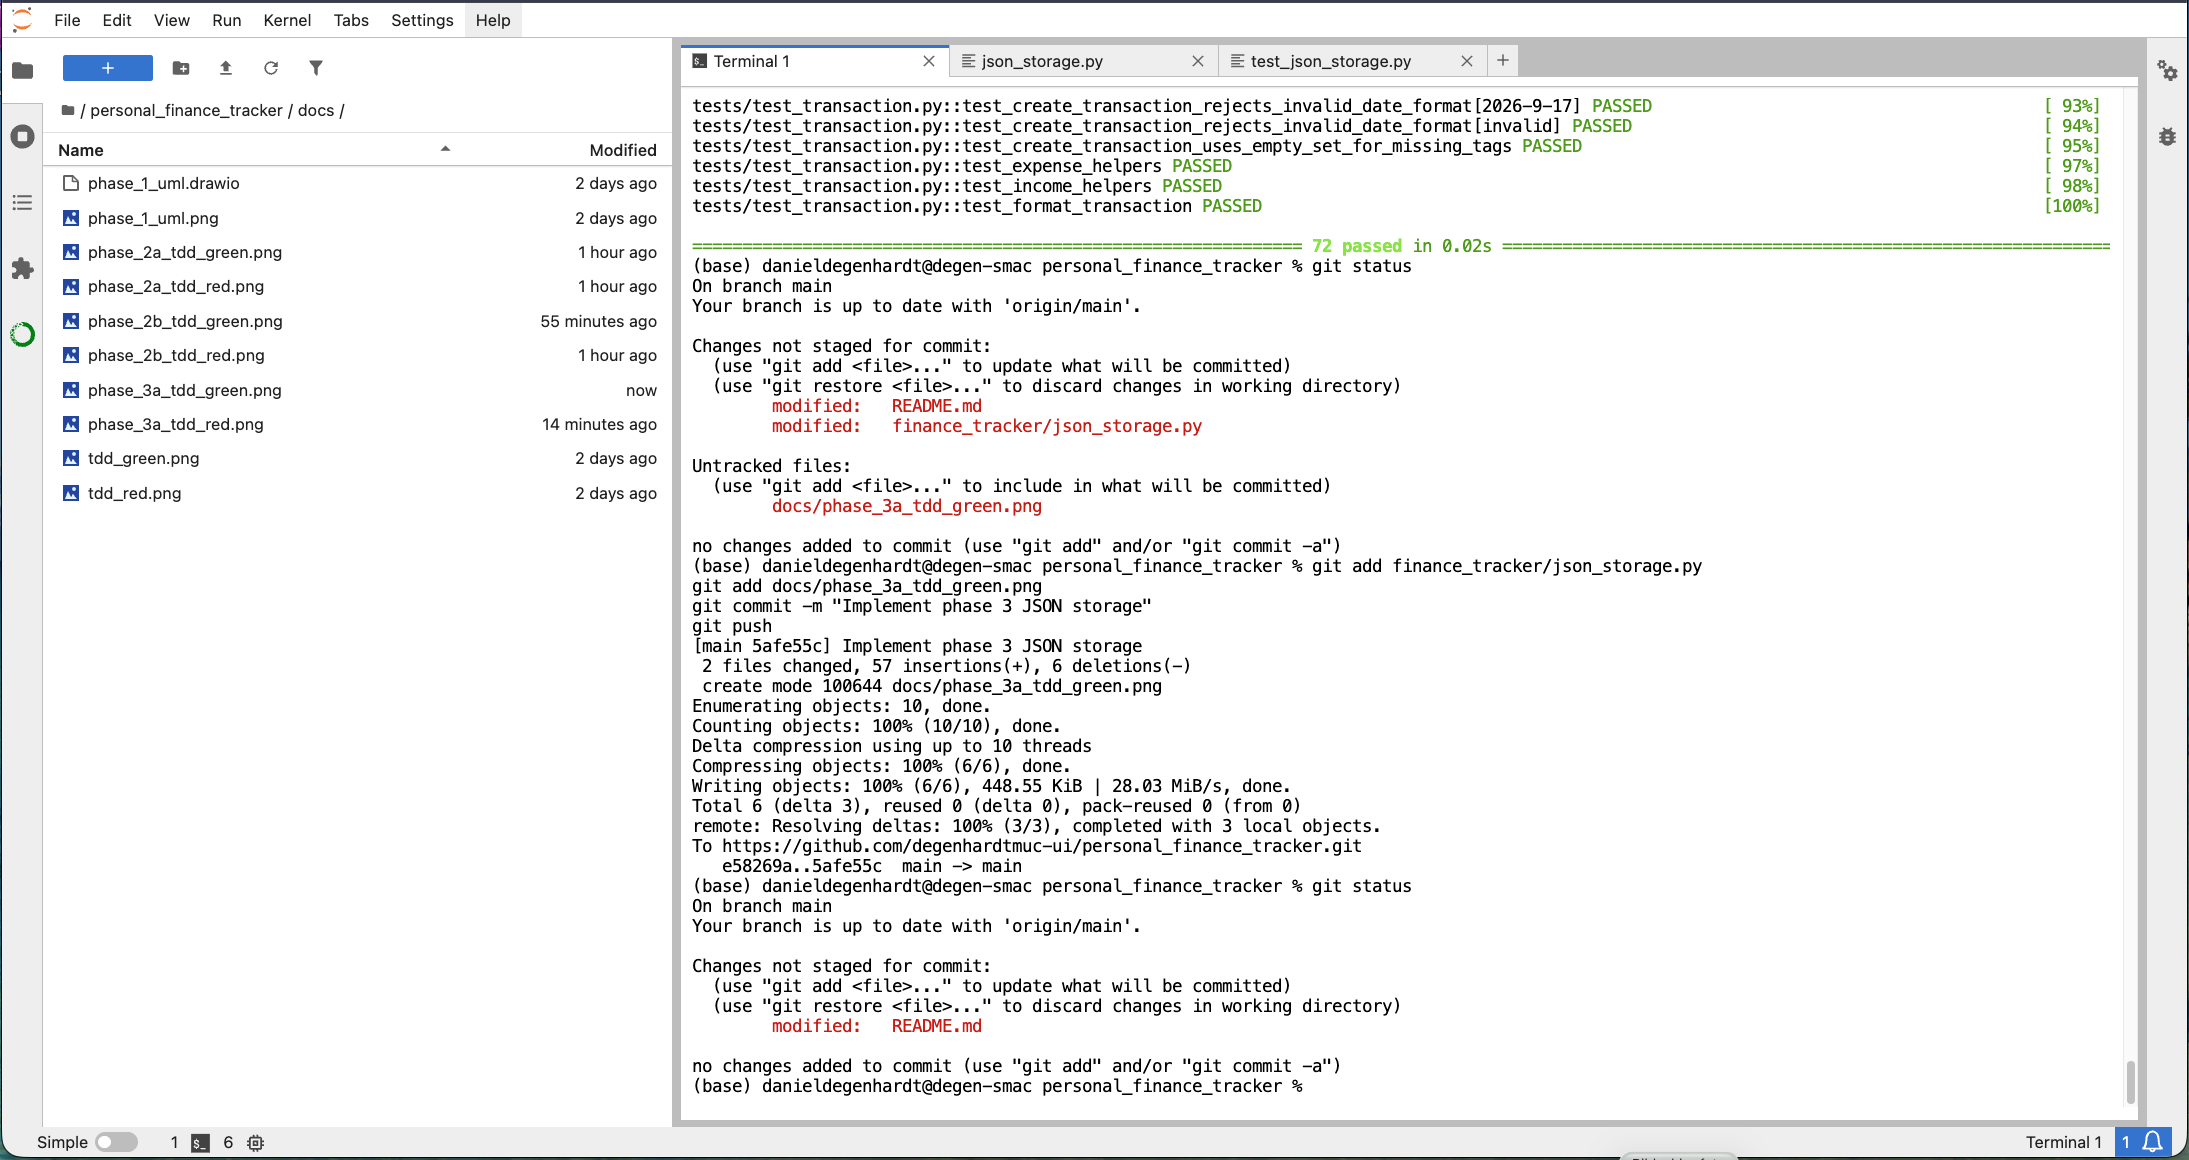
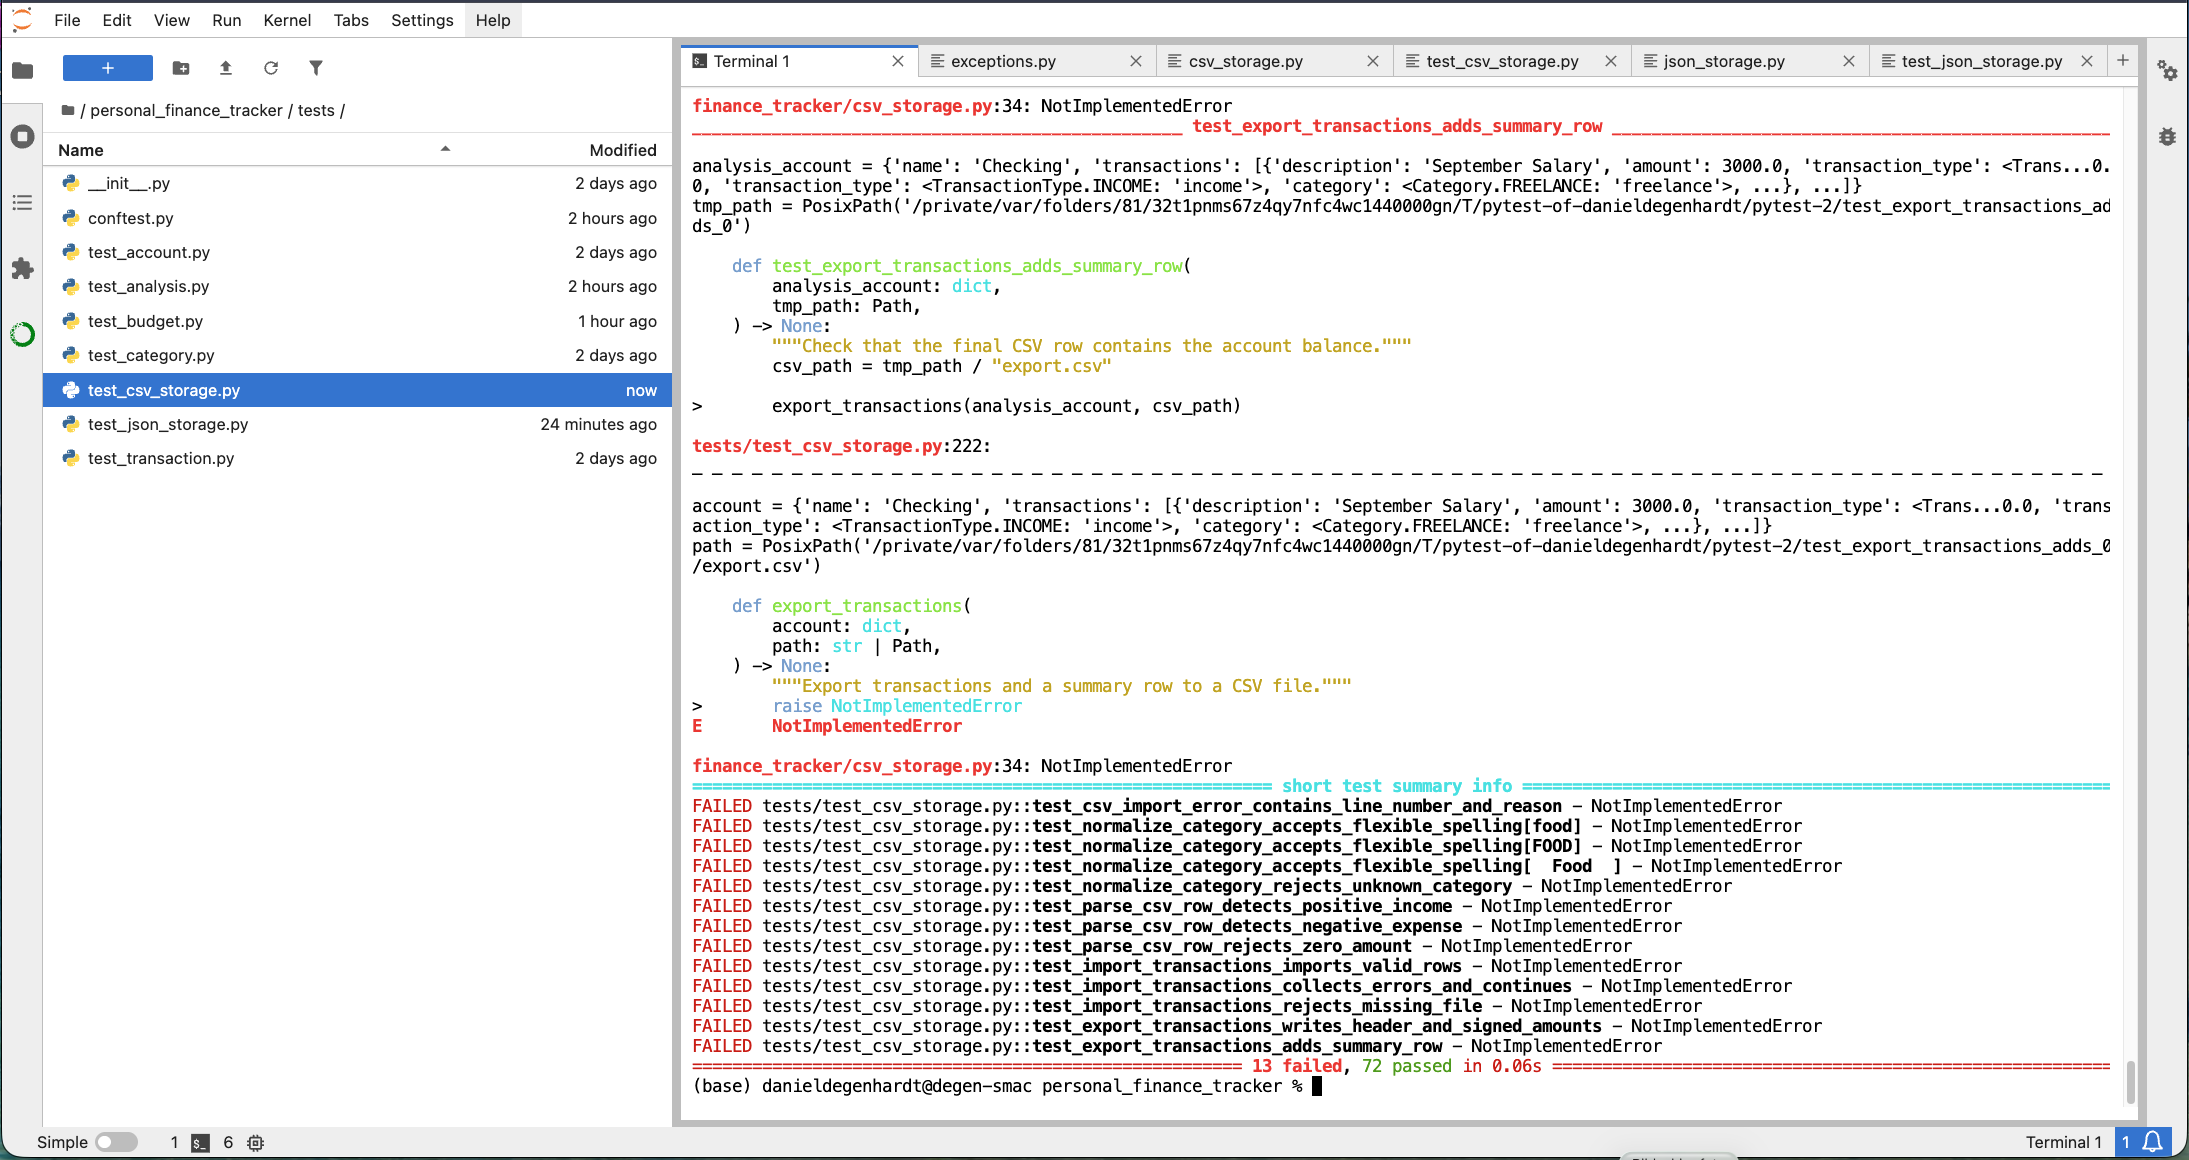
Add PySide6 smoke test and clean up project files

Changed region(s): [[0.0, 0.031, 0.9941, 0.931]]

diff --git a/examples/pyside6_smoke_test.py b/examples/pyside6_smoke_test.py
@@ -1,0 +1,21 @@
+"""Verify that a minimal PySide6 application starts successfully."""
+
+import sys
+
+from PySide6.QtWidgets import QApplication, QLabel
+
+
+def main() -> int:
+    """Create and run a minimal PySide6 application."""
+    app = QApplication(sys.argv)
+
+    label = QLabel("Personal Finance Tracker")
+    label.setWindowTitle("PySide6 Smoke Test")
+    label.resize(400, 100)
+    label.show()
+
+    return app.exec()
+
+
+if __name__ == "__main__":
+    sys.exit(main())
